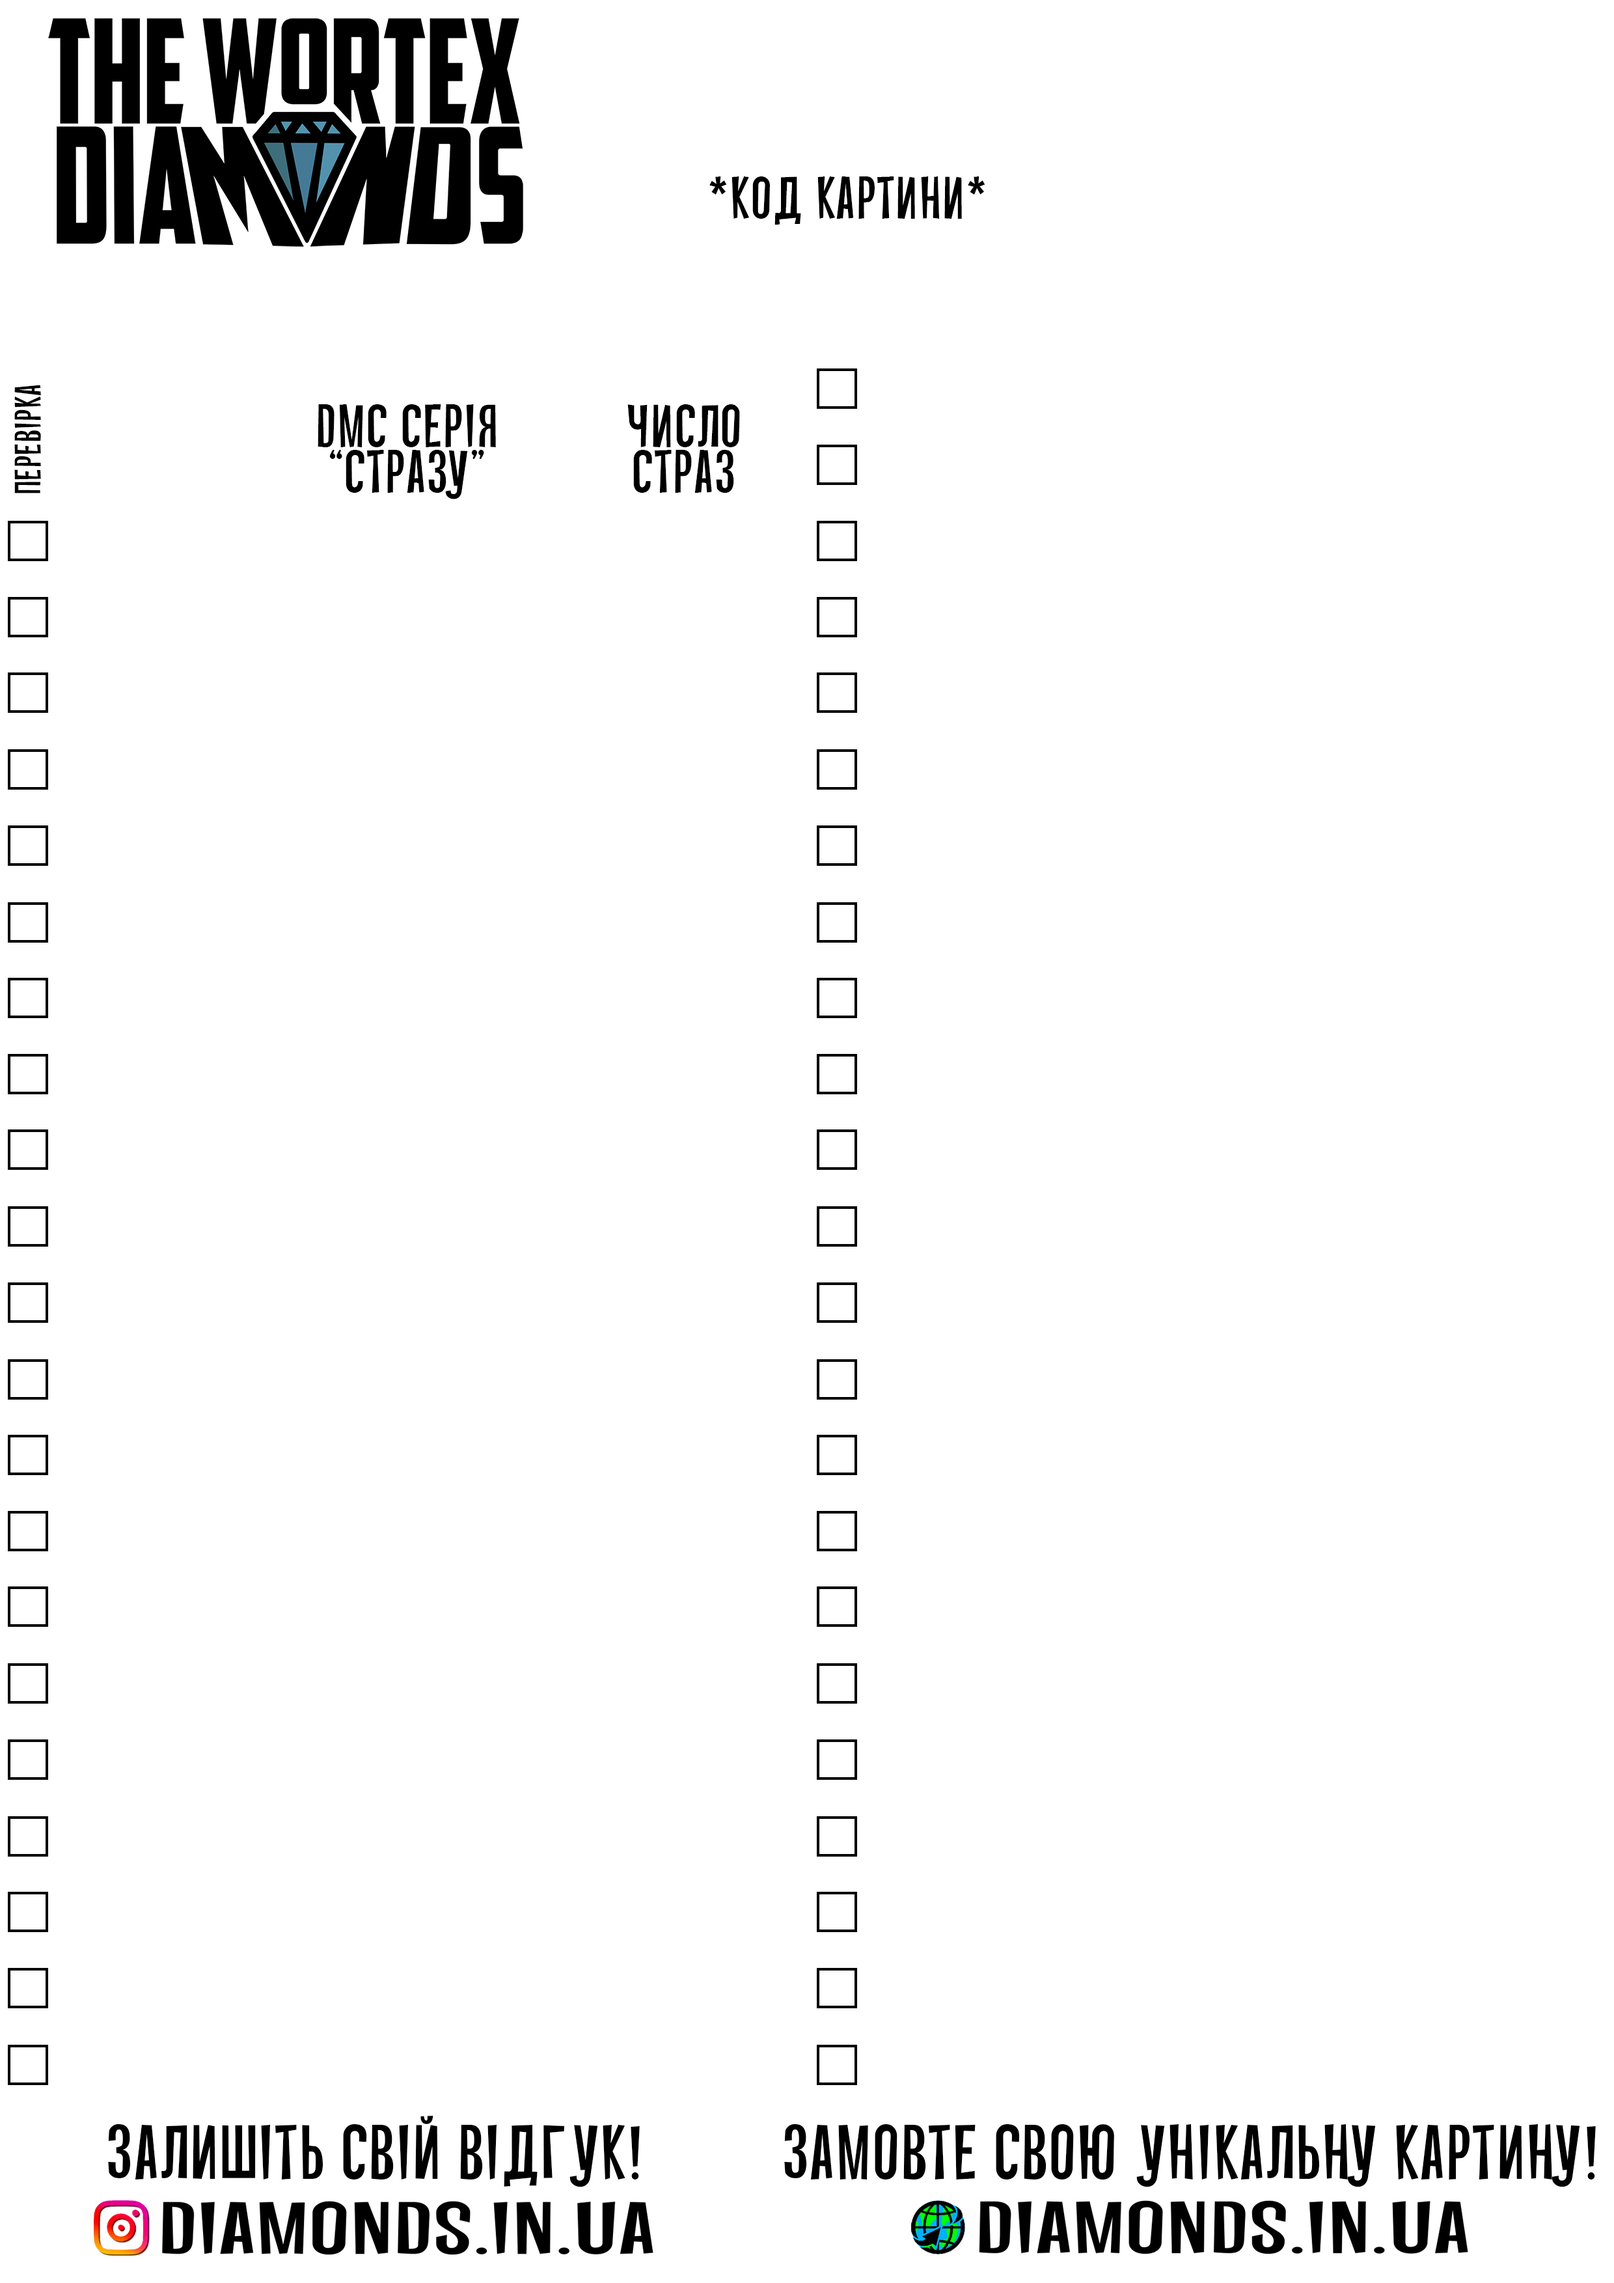
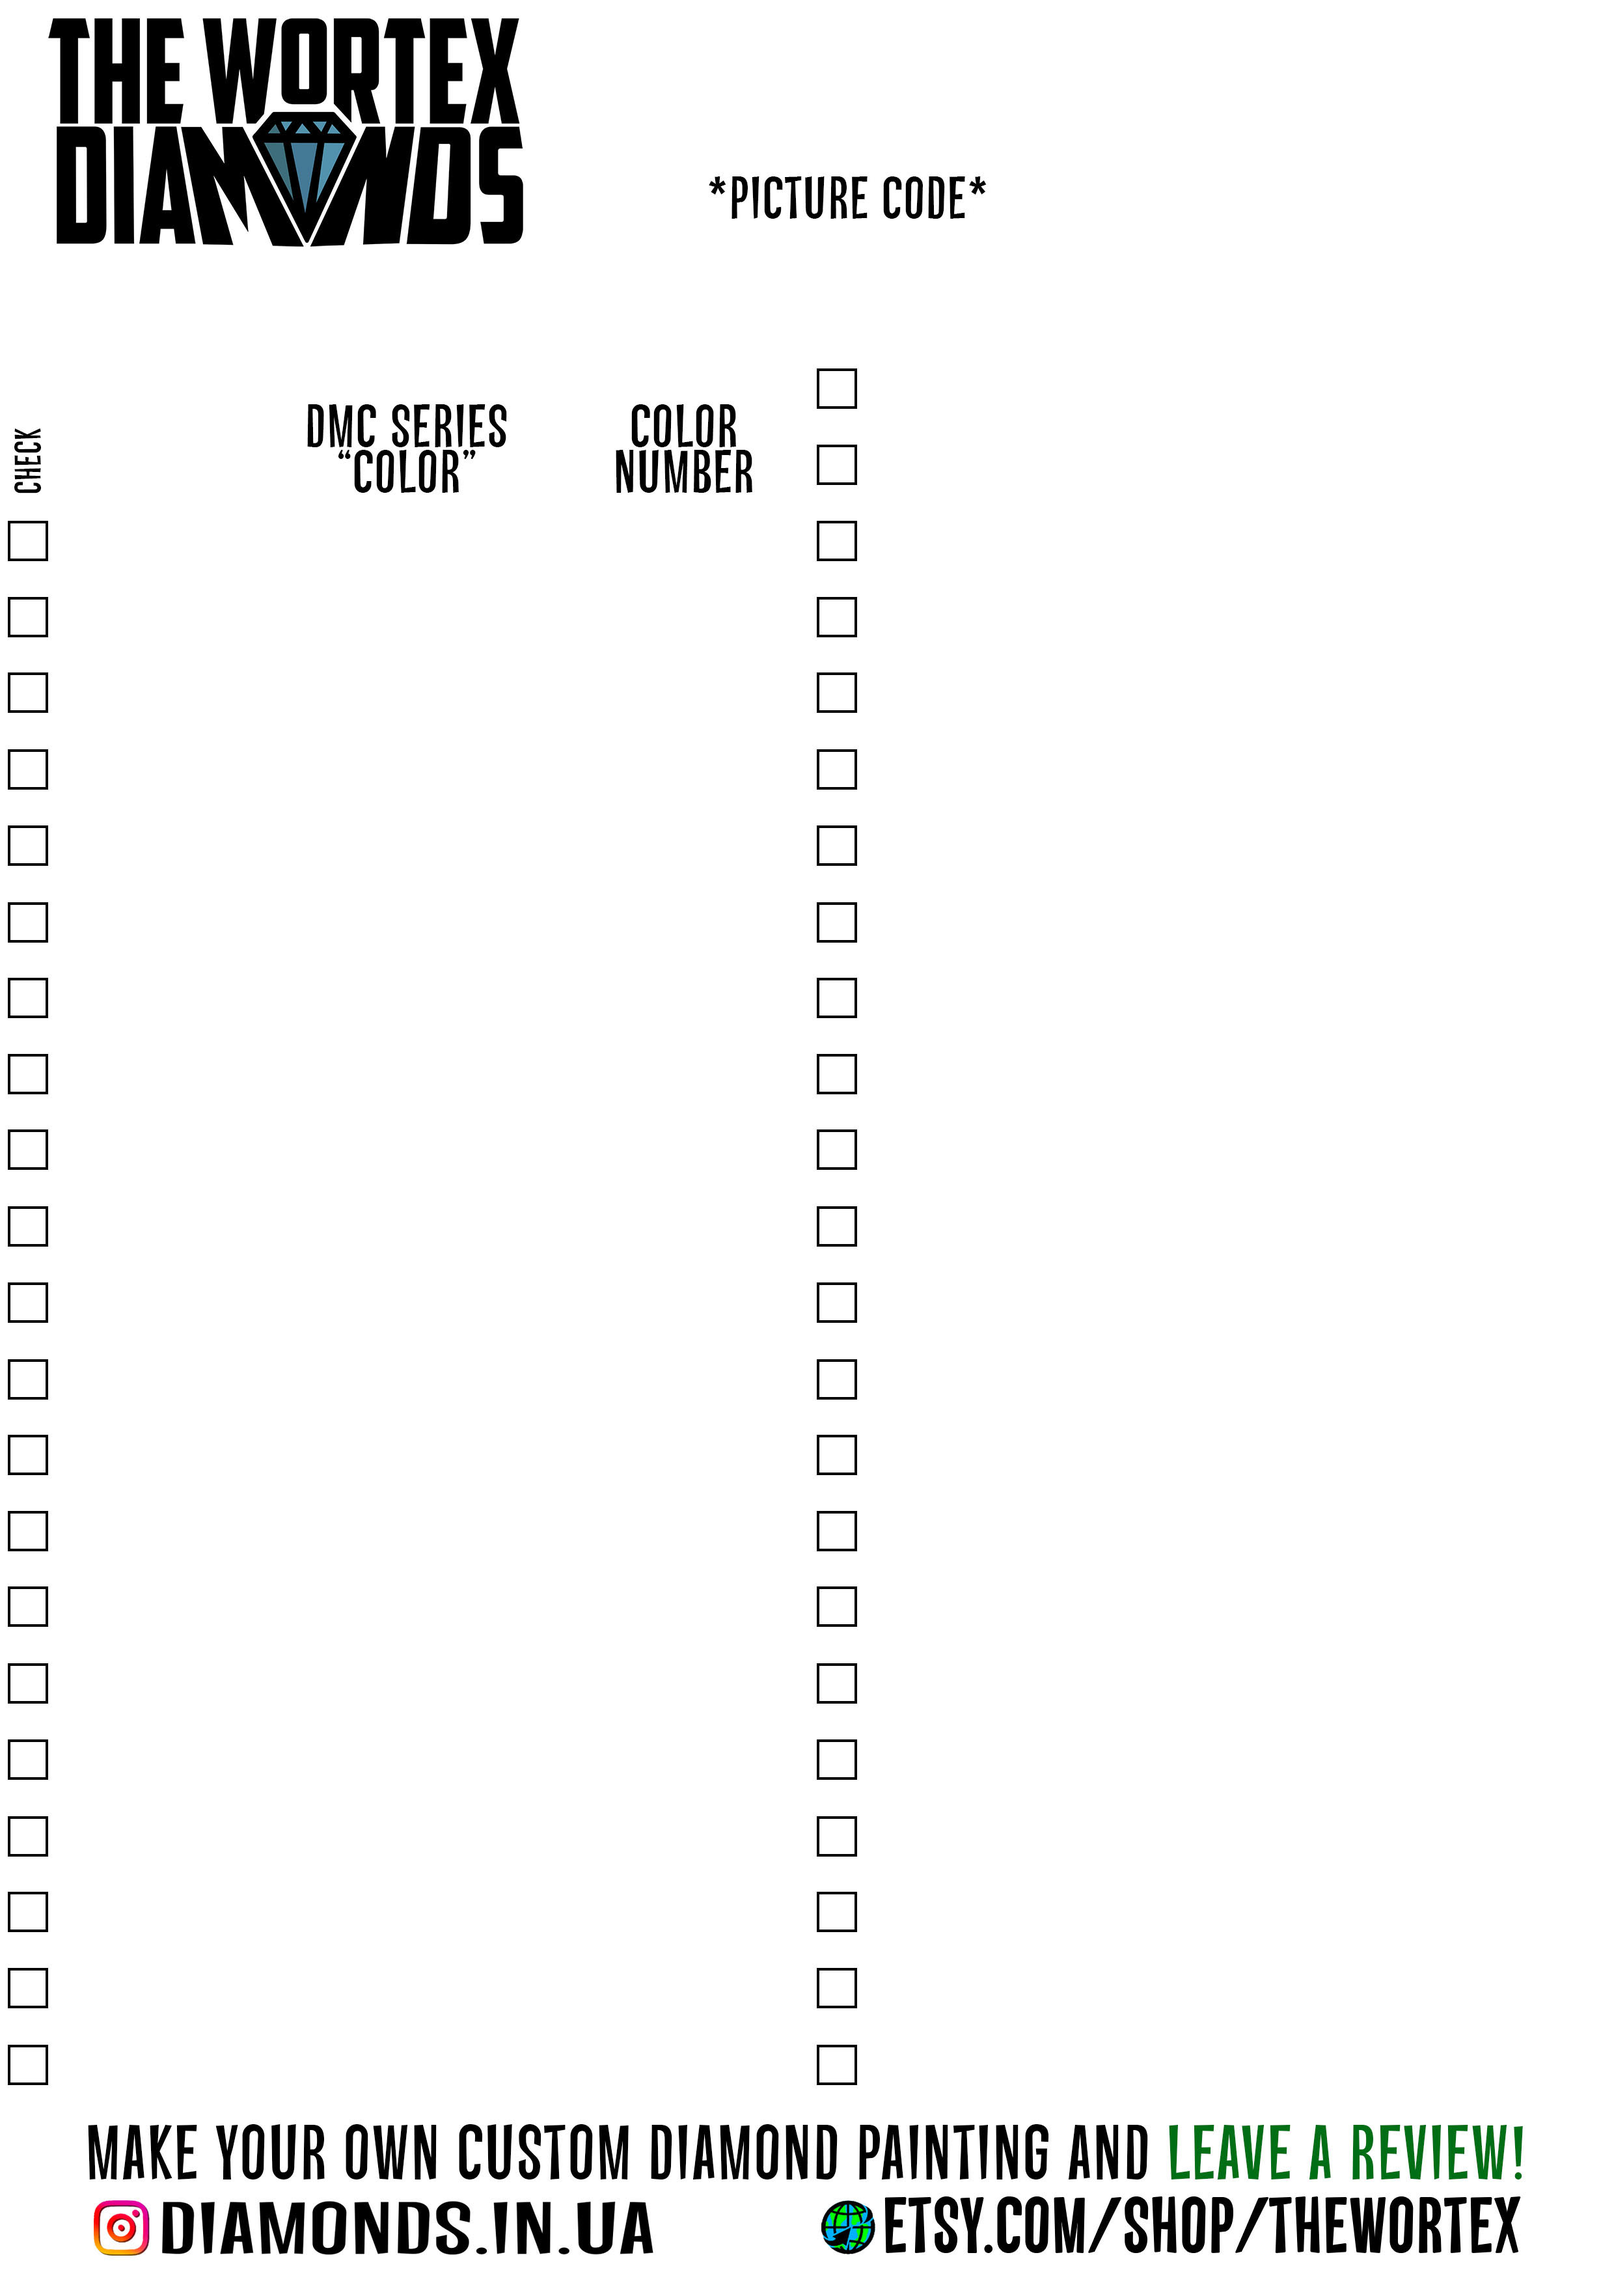
Fixed some bugs and updated legend template for english version

diff --git a/DiamondListCreator/Services/LegendsService.cs b/DiamondListCreator/Services/LegendsService.cs
@@ -13,7 +13,7 @@ namespace DiamondListCreator.Services
     public class LegendsService
     {
         /// <summary>
-        /// Creating Legends and saving them into pdf /Legends2List {Date.Now}.pdf
+        /// Creating Legends and saving them into pdf /Legends {Date.Now}.pdf
         /// </summary>
         /// <param name="diamonds">DiamondSettings list</param>
         /// <param name="paths">Path settings</param>
@@ -32,25 +32,24 @@ namespace DiamondListCreator.Services
                 if (GetSavedLegends(diamonds[i], paths.SavedLegendsPath) is Bitmap[] savedLegends)
                 {
                     AppendPagesToPdf(savedLegends, ref document);
+
+                    if (diamonds[i].IsEnglishVersion)
+                    {
+                        Bitmap[] legends = legendCreator.CreateEnglish(diamonds[i]);
+                        AppendPagesToPdf(legends, ref document);
+                    }
                 }
                 else
                 {
                     Bitmap[] legends = legendCreator.CreateUkrainian(diamonds[i]);
                     AppendPagesToPdf(legends, ref document);
                     FileService.SaveBitmapsInTif(legends, paths.SavedLegendsPath, diamonds[i].Name);
-
-                    if (diamonds[i].IsEnglishVersion)
-                    {
-                        legends = legendCreator.CreateEnglish(diamonds[i]);
-                        AppendPagesToPdf(legends, ref document);
-                        FileService.SaveBitmapsInTif(legends, paths.SavedLegendsPath, diamonds[i].Name);
-                    }
                 }
             }
 
             document.Close();
             byte[] content = stream.ToArray();
-            using (FileStream fs = File.Create(paths.FilesSavePath + "/Legends2List " + DateTime.Today.ToString().Substring(0, 10) + ".pdf"))
+            using (FileStream fs = File.Create(paths.FilesSavePath + "/Legends " + DateTime.Today.ToString().Substring(0, 10) + ".pdf"))
             {
                 fs.Write(content, 0, content.Length);
             }
